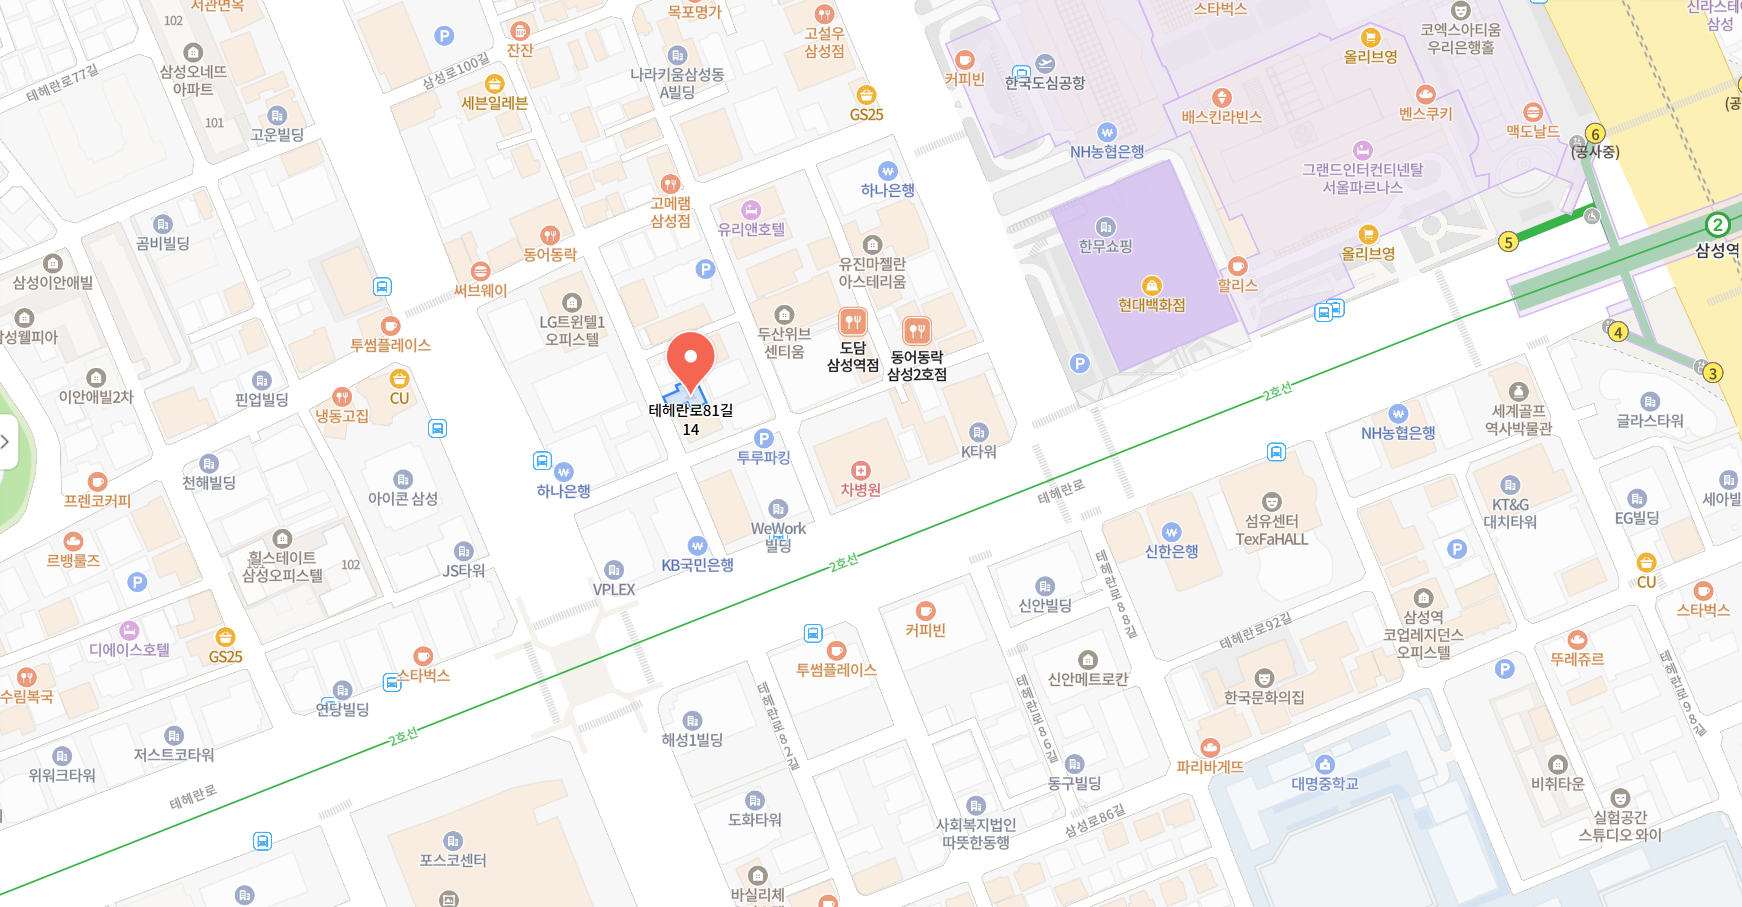
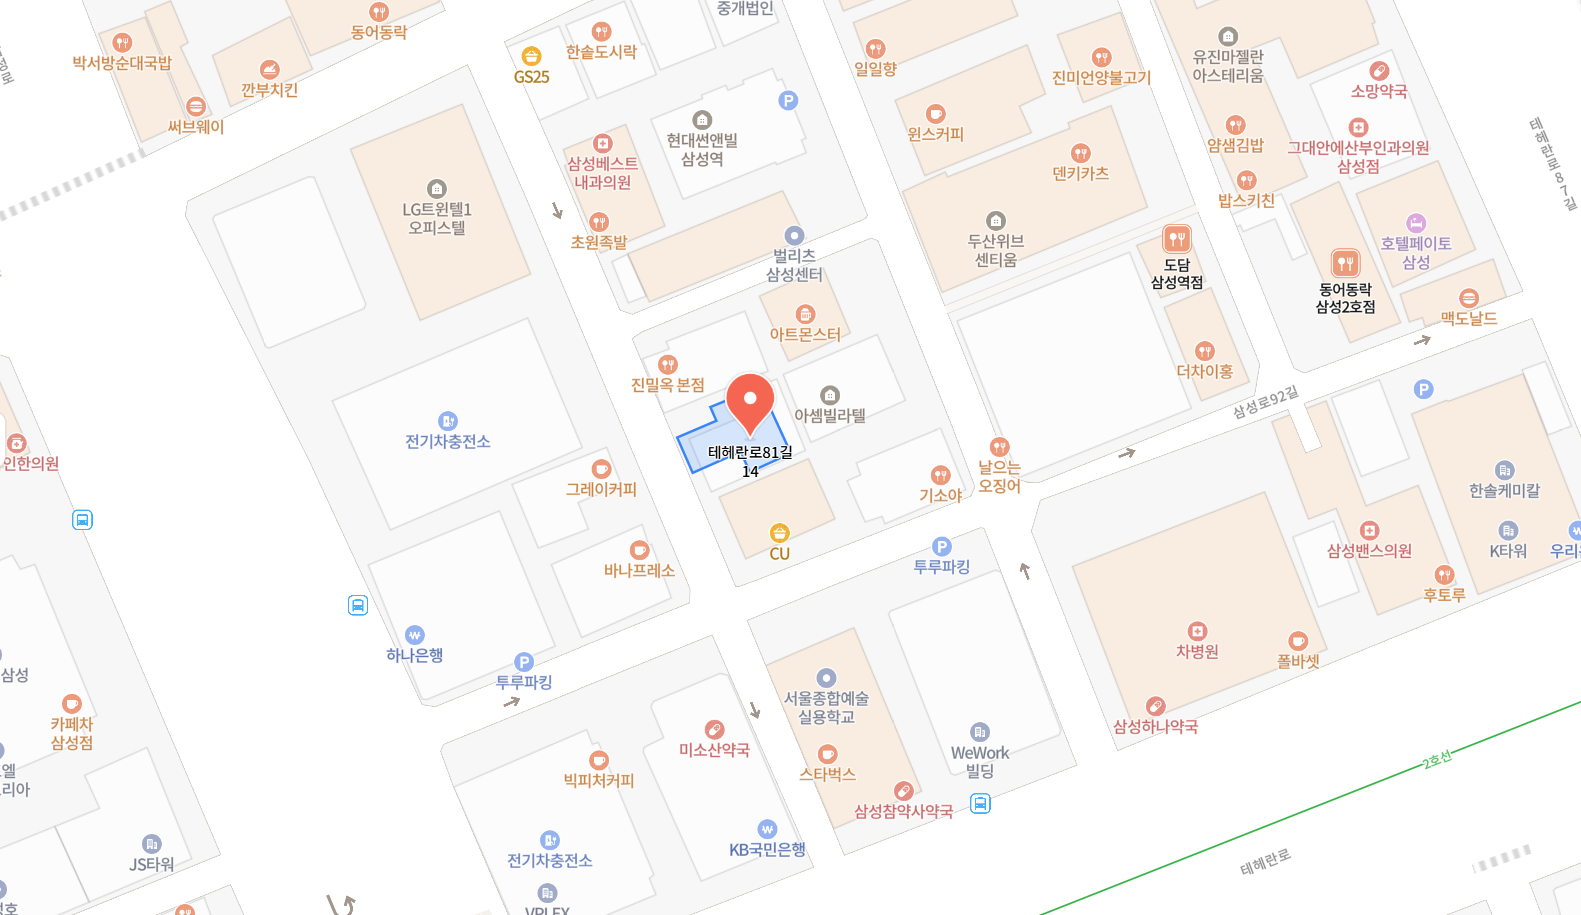
design: finalize invitation assets and guidelines

diff --git a/.superdesign/design-system.md b/.superdesign/design-system.md
@@ -4,44 +4,44 @@
 
 - 산출물: 별도 빌드 과정이 필요 없는 한 페이지 정적 HTML 초청장
 - 대상: 개업식 초대 손님. 고령 사용자가 포함되므로 큰 글자, 높은 명암, 단순한 정보 흐름을 우선한다.
-- 핵심 행동: 행사 일시와 위치를 확인하고, 정적 지도 캡처와 삼성역 도보 안내를 살펴본 뒤 필요하면 네이버 지도에서 장소 정보를 확인한다.
+- 핵심 행동: 행사 일시와 위치를 확인하고, 정적 지도 캡처와 삼성역 도보 안내를 살펴본 뒤 필요하면 네이버 지도에서 장소 정보를 확인하며, 계좌번호를 페이지에서 직접 확인·복사한다.
 - 외부 이동: `네이버 지도에서 확인하기` 버튼 외에는 허용하지 않는다.
 - 정보는 접거나 숨기지 않는다. 주요 경력 전체를 처음부터 표시한다.
 
 ## 정보 구조
 
-1. 하나의 상단 섹션: 로고, `호연회계법인에서의 새로운 출발을 알려드립니다`, 날짜·시간 placeholder, 장소
-2. 상단 섹션과 좁은 간격으로 이어지는 초청 소감문 placeholder
-3. 경력사항 소개: 왼쪽 인물 사진, 오른쪽 윤성중 부대표 이름과 주요 경력
-4. 오시는 길: 정적 지도 캡처, 주소, 2호선 삼성역 도보 안내, 큰 네이버 지도 확인 버튼, 주차 안내 placeholder
-5. 축하 문구와 후원계좌 placeholder
+1. 하나의 통합 도입부: 가로형 로고, `호연회계법인에서의 새로운 출발을 알려드립니다`, 초청 인사말 placeholder, 별도 일시·장소 강조 블록
+2. 경력사항 소개: 왼쪽 인물 사진, 오른쪽 윤성중 부대표 이름과 주요 경력
+3. 오시는 길: 정적 지도 캡처, 주소, 2호선 삼성역 도보 안내, 큰 네이버 지도 확인 버튼, 주차 안내 placeholder
+4. 별도 제목 없는 계좌 안내: 안내 문구, 우리은행 계좌 정보, 계좌번호 복사 버튼
 
 ## 시각 방향
 
 - 스타일: 격식 있고 전문적인 공식 안내문. 기업 신뢰감과 구조적 명료성을 우선한다.
 - 레퍼런스: Superdesign의 `Mosaic Grid Architecture Style`에서 얇은 구분선, 넉넉한 여백, 평면적인 정보 구획만 차용한다.
 - 사용하지 않을 요소: 모자이크 배경, 벤토 장식, 기술적 모노스페이스 표현, 거대한 영문 타이포그래피, 그림자, 그라데이션, 장식 애니메이션.
-- 페이지는 서브 그레이 배경 위 중앙 정렬된 최대 폭 640px 모바일 단일 열 콘텐츠로 구성한다.
-- 섹션은 1px 웜 아이보리 구분선을 가진 네이비 평면 카드로 분리한다.
+- 페이지는 Platinum Cool Gray 배경 위 중앙 정렬된 최대 폭 640px 모바일 단일 열 콘텐츠로 구성한다.
+- 넓은 배경과 본문 영역은 Platinum Cool Gray와 Slate Steel을 약 80% 사용하고, Deep Navy·Standard Blue·Vivid Green은 제목과 핵심 요소에 약 20%만 사용한다.
+- 짙은 색으로 카드 전체를 채우지 않는다. 밝은 평면 위 얇은 Standard Blue 구분선과 충분한 여백으로 정보 위계를 만든다.
 - 모서리 반경은 6~10px로 작게 유지한다.
 
 ## 색상 토큰
 
 전체 팔레트는 아래 5개만 사용한다. 투명도 변형은 동일 색상의 파생값으로 취급한다.
 
-- `--navy: #142755` — 본문 카드 배경
-- `--gray: #A9AABC` — 페이지 배경
-- `--green: #35B84A` — 로고와 작은 포인트에만 사용
-- `--ivory: #F6F4EF` — 보조 정보와 경계선
-- `--white: #FFFFFF` — 제목, 버튼, 구분선과 주요 본문
+- `--deep-navy: #0A2D54` — 메인 제목, 핵심 정보, 주요 버튼
+- `--standard-blue: #0063A6` — 섹션 제목, 구분선, 네이버 지도 버튼
+- `--vivid-green: #43A64E` — 달력·지도 핀·버튼 내부의 작은 포인트
+- `--platinum-cool-gray: #F0F4F8` — 페이지와 넓은 카드 배경
+- `--slate-steel: #64748B` — 인사말, 경력, 주소, 주차 안내 본문
 
 색 사용 규칙:
 
-- 본문 텍스트는 네이비 카드 위 화이트를 기본으로 사용한다.
-- 보조 정보는 웜 아이보리를 사용하며 크기와 굵기를 충분히 확보한다.
-- 버튼은 화이트 배경과 네이비 글자를 사용한다.
-- 구분선은 화이트 또는 웜 아이보리를 낮은 투명도로 사용한다.
-- 그린은 로고와 작은 상태·위치 포인트에만 사용한다.
+- 본문 텍스트는 밝은 배경 위 Slate Steel을 기본으로 사용한다.
+- 메인 제목, 행사 일시·장소, 계좌번호는 Deep Navy로 강조한다.
+- 섹션 제목과 구분선, 네이버 지도 버튼은 Standard Blue를 사용한다.
+- 계좌정보 복사 버튼은 Deep Navy를 사용한다.
+- Vivid Green은 달력·지도 핀·버튼 내부 아이콘 같은 작은 포인트에만 사용한다.
 
 ## 타이포그래피
 
@@ -67,35 +67,36 @@
 
 ## 이미지
 
-- 로고: `/img/hoyeon_logo_vertical.png`, 원본 비율 유지, 아이보리 또는 흰색 배경 위에 충분한 안전 여백 제공.
+- 로고: `/img/hoyeon_logo_horizontal.png`, 원본 색상과 비율을 유지하고 필터·반전·재색상·자르기를 사용하지 않는다.
+- 도입부 배경: `/img/reflection_background.png`, 통합 도입부 전체를 덮는 별도 배경 레이어에 배치하고 해당 이미지 레이어에만 `opacity: 0.4`를 적용한다. 로고와 텍스트는 완전 불투명 상태를 유지한다.
 - 인물 사진: `/img/portrait_ysj.png`, 원본 전체를 `object-fit: contain`으로 표시하고 아래쪽에 정렬한다. 얼굴과 상반신을 자르거나 왜곡하지 않는다.
-- 지도 캡처: `/img/map_capture.png`, 콘텐츠 폭 전체에 원본 비율로 표시한다.
+- 지도 캡처: `/img/map_capture_resized.png`, 콘텐츠 폭 전체에 원본 비율로 표시한다.
 - 지하철 아이콘: `/img/Seoul_Metro_Line_2.svg.webp`, 원형 비율을 유지하고 `2호선 삼성역 5번출구에서 도보 약 10분` 문구 앞에 작은 크기로 배치한다.
 - 별도의 장식 이미지와 아이콘 세트는 추가하지 않는다.
 
 ## 구성 요소
 
-- `InvitationHero`: 로고, `호연회계법인에서의 새로운 출발을 알려드립니다`, 날짜·시간 placeholder와 장소.
-- `ReflectionSection`: 상단 섹션과 좁은 간격으로 이어지는 소감문 placeholder.
+- `InvitationIntro`: `id="intro-section"`을 사용한다. 가로형 로고, `호연회계법인에서의 새로운 출발을 알려드립니다`, 초청 인사말 placeholder, `id="event-details"`인 별도 일시·장소 강조 블록을 하나의 연속된 섹션 안에 배치한다.
 - `ProfileSection`: 경력사항 소개 제목, 왼쪽 인물 사진, 오른쪽 이름·주요 경력 목록.
 - `MapSection`: 정적 지도 캡처, 주소, 2호선 삼성역 도보 안내, 네이버 지도 장소 확인 버튼, 주차 안내, 이미지 로딩 실패 안내.
-- `AccountNotice`: 축하 문구, 후원계좌 placeholder, 추후 모달과 복사 동작을 위한 버튼 자리.
+- `AccountNotice`: 별도 `h2` 없이 `축하의 마음을 전하고자 하시는 분들을 위해 계좌 정보를 조심스럽게 안내드립니다.` 문구와 우리은행·`049-087742-02-501`·윤성중 정보를 같은 페이지에 항상 표시한다. `id="copy-account-number"` 버튼과 `aria-live="polite"` 상태 영역을 포함한다.
 
 ## 동작 규칙
 
 - 유일한 외부 이동은 `네이버 지도에서 확인하기` 버튼이다.
-- 지도는 iframe이나 Web Dynamic Map API를 사용하지 않고 `/img/map_capture.png` 정적 이미지만 표시한다.
+- 지도는 iframe이나 Web Dynamic Map API를 사용하지 않고 `/img/map_capture_resized.png` 정적 이미지만 표시한다.
 - 주소 바로 아래에 2호선 아이콘과 `2호선 삼성역 5번출구에서 도보 약 10분` 문구를 한 줄로 표시한다.
 - 네이버 지도 확인 버튼은 길찾기 메뉴가 아니라 `서울특별시 강남구 테헤란로81길 14` 주소 검색 결과와 장소 정보가 바로 보이는 URL을 연다.
 - 지도 이미지 로딩 실패 시에도 주소, 대중교통 안내와 네이버 지도 확인 버튼은 그대로 사용할 수 있어야 한다.
-- `마음 전하실 곳` 버튼은 페이지 내부 모달을 실제로 열고 닫아야 한다. 정보가 확정되기 전에는 모달 안에 placeholder 상태를 명확히 표시한다.
-- 계좌번호 복사 시 하이픈을 제거한 숫자 문자열을 클립보드에 쓴다. 실패하면 사용자가 직접 선택할 수 있는 원문을 유지한다.
-- 모달은 키보드로 열고 닫을 수 있고, 배경 클릭과 Escape로 닫을 수 있어야 한다.
+- `[일시 및 장소]` 레이블은 표시하지 않는다. 기존 날짜 placeholder와 주소는 `event-details` 안에서 달력·지도 핀 아이콘과 함께 강조한다.
+- `축하의 말씀` 제목, `마음 전하실 곳 확인하기` 버튼, 계좌 모달과 관련 열기·닫기 JavaScript는 사용하지 않는다.
+- `계좌정보 복사` 버튼은 `navigator.clipboard.writeText('04908774202501')`로 계좌번호만 하이픈 없이 복사한다.
+- 복사 성공 시 `계좌번호가 복사되었습니다.`를, 실패 시 `계좌번호를 길게 눌러 복사해 주세요.`를 라이브 영역에 표시한다.
 
 ## 성능 및 접근성
 
 - 프레임워크와 불필요한 외부 라이브러리를 사용하지 않는다.
-- JavaScript는 지도 보조, 모달, 클립보드 복사에 필요한 최소 범위로 제한한다.
+- JavaScript는 계좌번호 클립보드 복사와 상태 안내에 필요한 최소 범위로 제한한다.
 - 지속 애니메이션, 스크롤 효과, 자동 재생 요소를 사용하지 않는다.
 - 키보드 포커스 표시를 제거하지 않는다.
 - 버튼의 최소 터치 영역은 44px 이상으로 한다.
@@ -103,4 +104,4 @@
 
 ## Superdesign 생성 제약
 
-Use ONLY the fonts, colors, spacing, and component styles defined in this design system. Do not introduce any fonts, colors, gradients, shadows, decorative patterns, or visual styles not in the design system. Use one fixed mobile-width single-column page shell on every viewport with no media queries. In ProfileSection, keep the approved two-column B layout: uncropped bottom-aligned portrait on the left and name plus all ten career entries on the right, with both bottoms aligned. Do not show contact, education, or certification lines. In MapSection, use the provided static map capture at its original aspect ratio, add the Line 2 icon and walking guidance directly below the address, and label the single external button `네이버 지도에서 확인하기`; never render an iframe, API map, or directions form. Include working inline account-modal behavior in the preview.
+Use ONLY the fonts, colors, spacing, and component styles defined in this design system. Do not introduce any fonts, colors, gradients, shadows, decorative patterns, or visual styles not in the design system. Use one fixed mobile-width single-column page shell on every viewport with no media queries. Build one continuous InvitationIntro with the uploaded horizontal logo in its original colors, the unchanged main heading, the invitation placeholder, and a separate event-details block over the uploaded reflection background at 40% background-layer opacity. In ProfileSection, keep the approved two-column B layout: uncropped bottom-aligned portrait on the left and name plus all ten career entries on the right, with both bottoms aligned. Do not show contact, education, or certification lines. In MapSection, preserve the provided static map capture at its original aspect ratio, the Line 2 icon and walking guidance, the exact address, the Naver Map URL, and the parking placeholder; never render an iframe, API map, or directions form. Remove the celebration h2 and all account-modal UI. Show the approved account notice and account data inline with a working digits-only clipboard button and accessible success/failure status.
